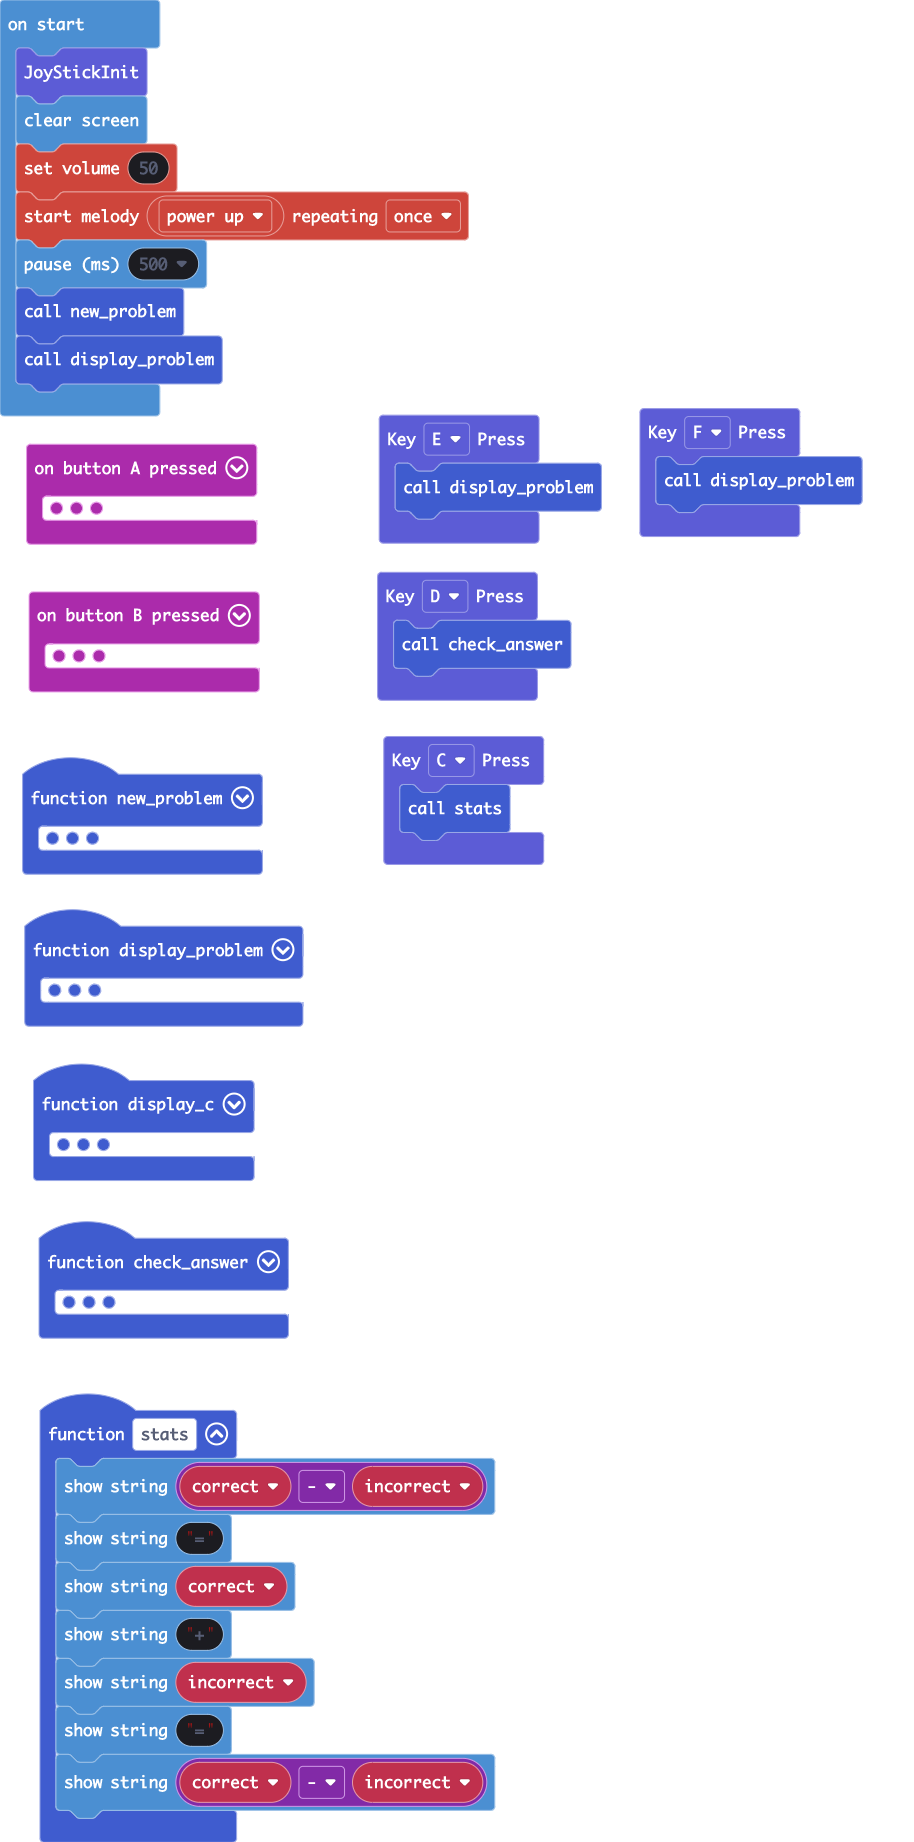
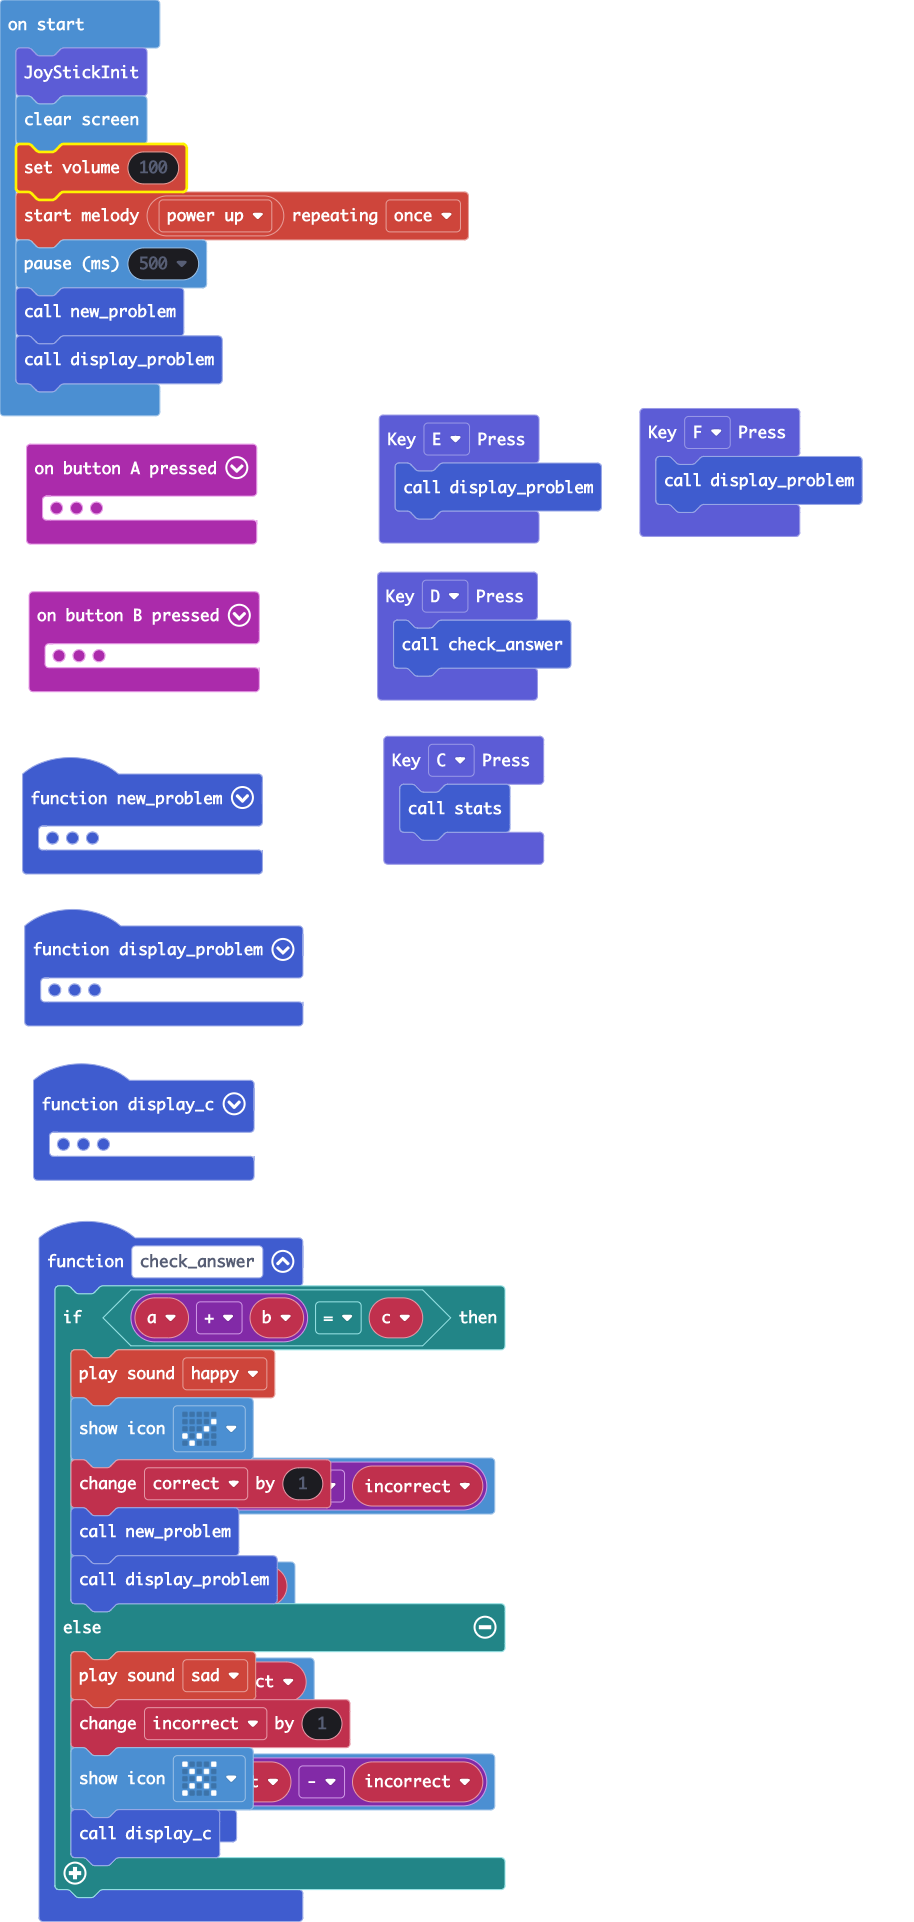
Debug

Changed region(s): [[0.0, 0.0, 0.5514, 1.0], [0.3982, 0.2166, 0.674, 0.4951], [0.7046, 0.1857, 0.9497, 0.3094]]

diff --git a/main.ts b/main.ts
@@ -65,7 +65,7 @@ function check_answer () {
         display_problem()
     } else {
         soundExpression.sad.play()
-        incorrect += -1
+        incorrect += 1
         basic.showIcon(IconNames.No)
         display_c()
     }
@@ -74,7 +74,7 @@ function stats () {
     basic.showString("" + (correct - incorrect))
     basic.showString("=")
     basic.showString("" + (correct))
-    basic.showString("+")
+    basic.showString("-")
     basic.showString("" + (incorrect))
     basic.showString("=")
     basic.showString("" + (correct - incorrect))
@@ -89,7 +89,7 @@ let x = 0
 let y = 0
 WSJoyStick.JoyStickInit()
 basic.clearScreen()
-music.setVolume(50)
+music.setVolume(100)
 music.startMelody(music.builtInMelody(Melodies.PowerUp), MelodyOptions.Once)
 basic.pause(500)
 new_problem()
